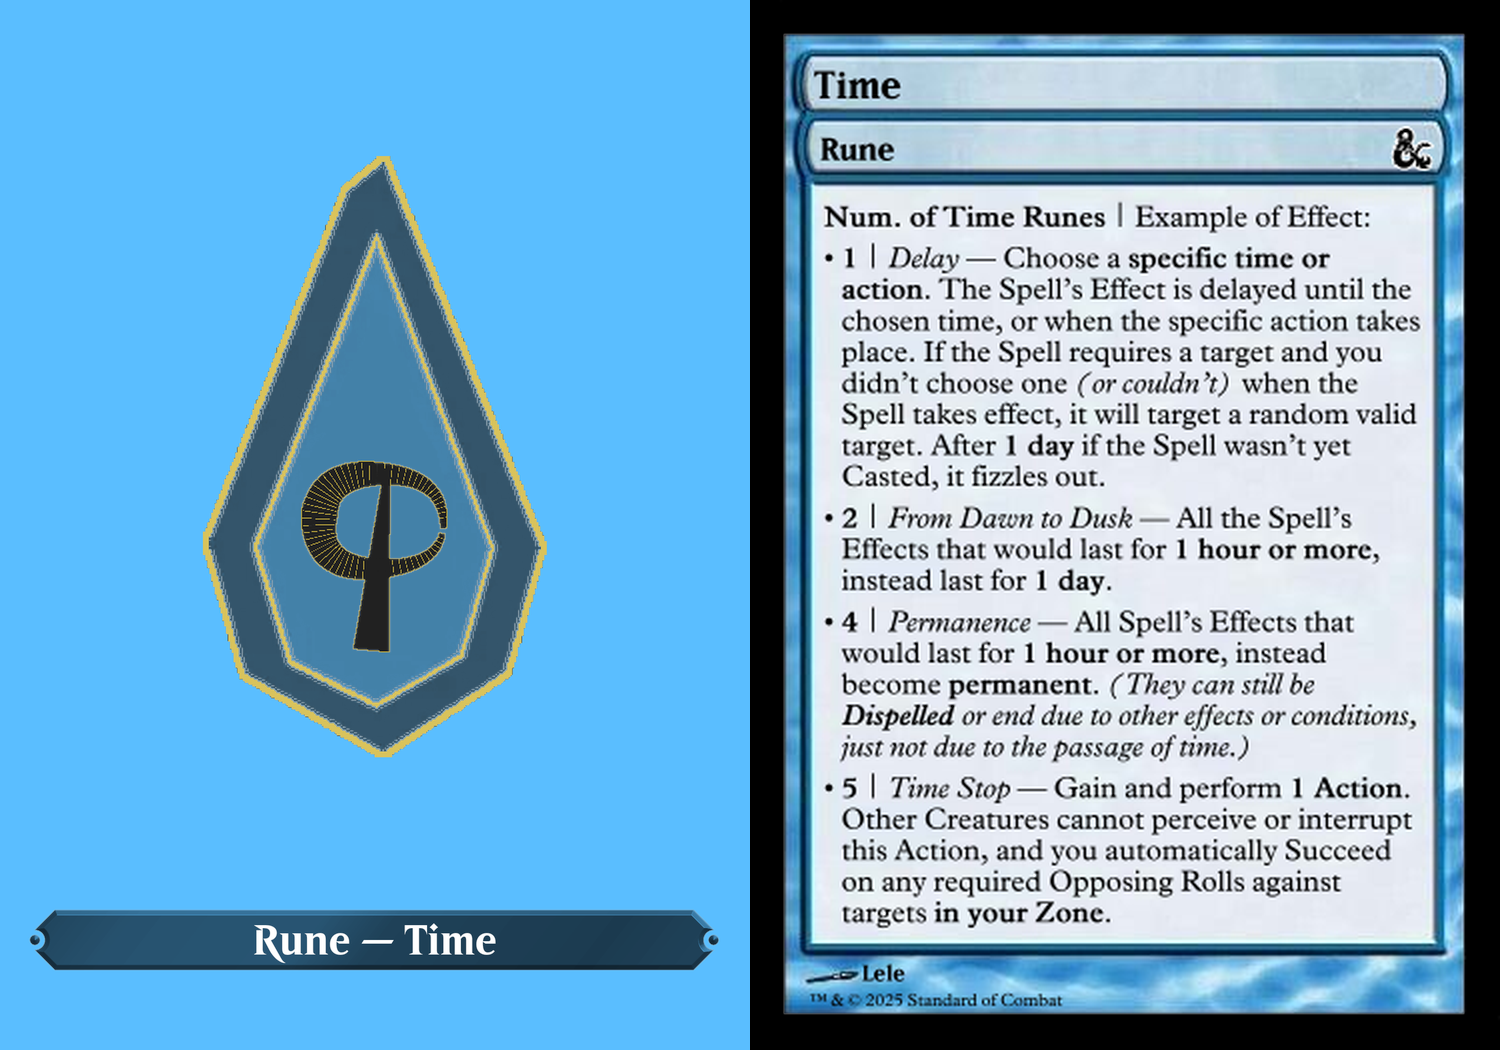
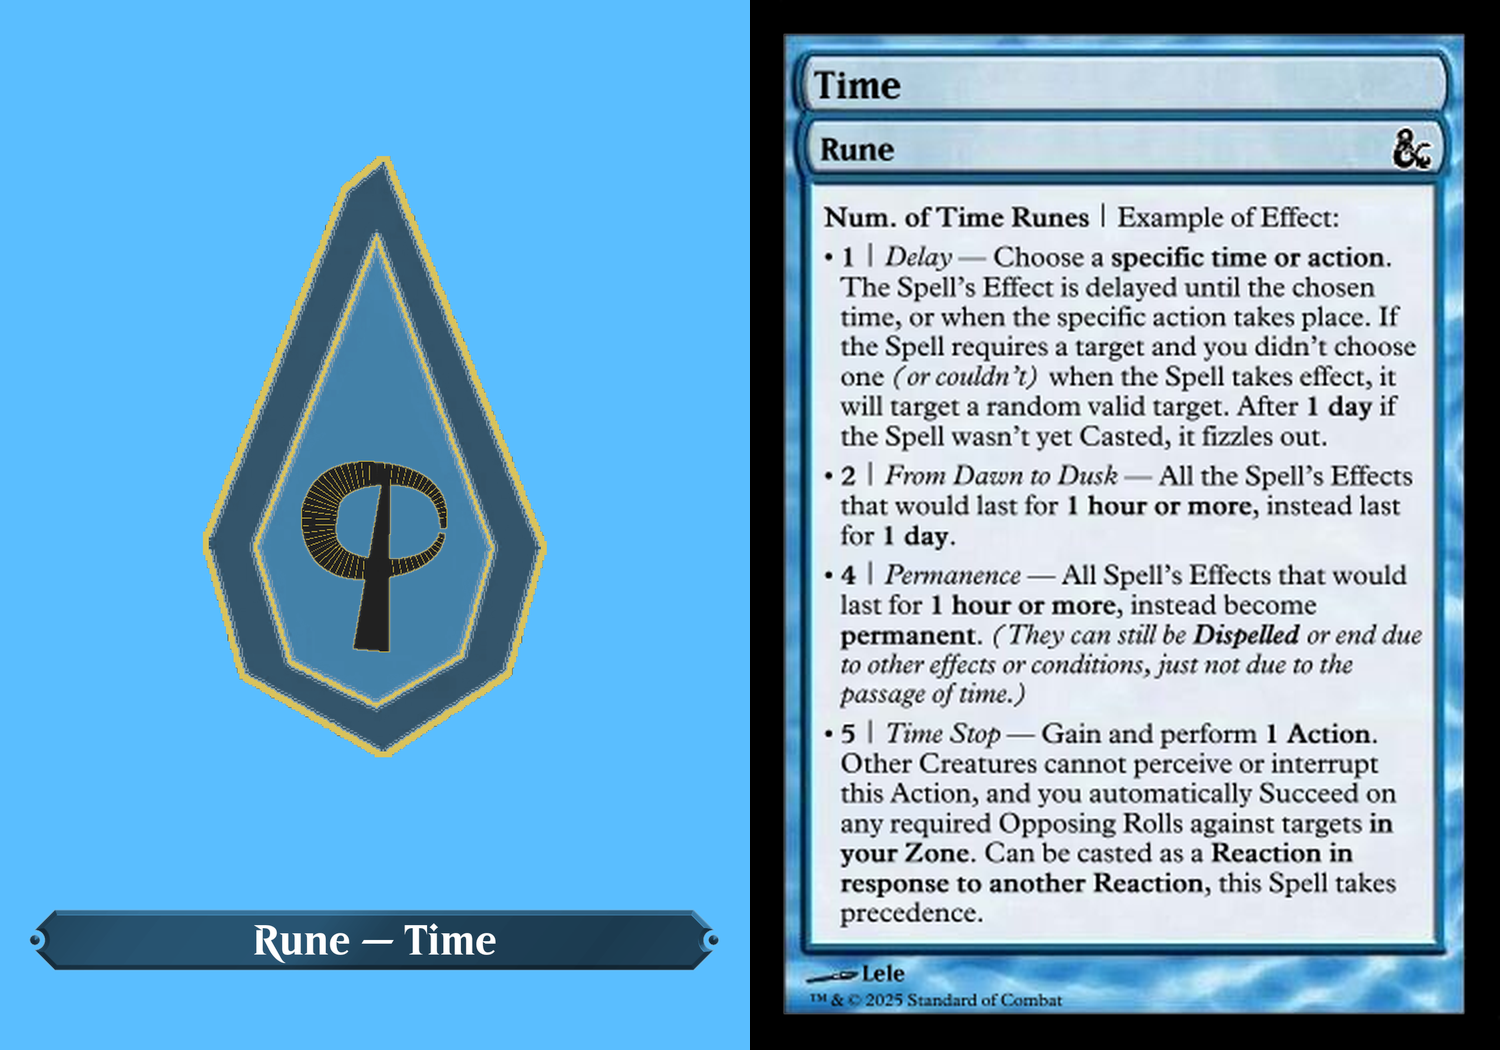
Quartz sync: Aug 7, 2025, 5:15 PM

Changed region(s): [[0.552, 0.1829, 0.9507, 0.8838]]

diff --git a/content/Notes & Images/SoC • Rune - Time.md b/content/Notes & Images/SoC • Rune - Time.md
@@ -5,7 +5,7 @@ aliases:
 %%
 - ***Image***:<br>![[Pasted image 20250102221205.png|100]]
 - ***Info***: Rune - Time 
-- ***Description***:<br>**Num. of Time Runes** | Example of Effect:<br>• **1** | _Delay_ — Choose a **specific time or action**. The Spell's Effect is delayed until the chosen time, or when the specific action takes place. If the Spell requires a target and you didn't choose one (_or couldn't_) when the Spell takes effect, it will target a random valid target. After **1 day** if the Spell wasn't yet Casted, it fizzles out.<br>• **2** | _From Dawn to Dusk_ — All the Spell's Effects that would last for **1 hour or more**, instead last for **1 day**.<br>• **4** | _Permanence_ — All Spell's Effects that would last for **1 hour or more**, instead become **permanent**. (_They can still be **Dispelled** or end due to other effects or conditions, just not due to the passage of time._)<br>• **5** | _Time Stop_ — Gain and perform **1 [[SoC • Rules Chapter - COMBAT|Action]]**. Other Creatures cannot perceive or interrupt this Action, and you automatically Succeed on any required [[SoC • Rules - Opposing Rolls|Opposing Rolls]] against targets **in your [[SoC • Rules Chapter - ZONES|Zone]]**.
+- ***Description***:<br>**Num. of Time Runes** | Example of Effect:<br>• **1** | _Delay_ — Choose a **specific time or action**. The Spell's Effect is delayed until the chosen time, or when the specific action takes place. If the Spell requires a target and you didn't choose one (_or couldn't_) when the Spell takes effect, it will target a random valid target. After **1 day** if the Spell wasn't yet Casted, it fizzles out.<br>• **2** | _From Dawn to Dusk_ — All the Spell's Effects that would last for **1 hour or more**, instead last for **1 day**.<br>• **4** | _Permanence_ — All Spell's Effects that would last for **1 hour or more**, instead become **permanent**. (_They can still be **Dispelled** or end due to other effects or conditions, just not due to the passage of time._)<br>• **5** | _Time Stop_ — Gain and perform **1 [[SoC • Rules Chapter - COMBAT|Action]]**. Other Creatures cannot perceive or interrupt this Action, and you automatically Succeed on any required [[SoC • Rules - Opposing Rolls|Opposing Rolls]] against targets **in your [[SoC • Rules Chapter - ZONES|Zone]]**. Can be casted as a **[[Reactions|Reaction]] in response to another [[Reactions|Reaction]]**, this Spell takes precedence.
 - ***Effects***: 
 - ***Limitations***: 
 - ***Color***: blue 

diff --git a/content/SoC • Optional Rule - Simplest Passive Ability.md b/content/SoC • Optional Rule - Simplest Passive Ability.md
@@ -1,0 +1,16 @@
+---
+aliases:
+  - Simplest Passive Ability
+---
+%%
+- ***Type***: Optional Rule
+- ***Description***:<br>_Optional Rule_ — Your **GM** will decide if they want to add this rule to the game.<br><br>_Although difficult, a Character may want a Passive Ability using only a single Rune, in those cases, it should not cost 5 Hero Points!_<br>You can spend **1 hour** to Create a [[SoC • Rules Chapter - SPELLS|Spell]] using **1 [[SoC • Rules Chapter - RUNES|Rune]]**, and pay **3 [[SoC • Rules Chapter - NEW CAMPAIGN|Hero Points]]**, to turn it into a **[[SoC • Rule - Passive Ability|Passive Ability]]**.<br><br>If then, you Character wants to "Increase" the Effect of this Simple [[SoC • Rule - Passive Ability|Passive Ability]], it does not require to make a complete new again. By spending **another hour** and **2 other [[SoC • Rules Chapter - NEW CAMPAIGN|Hero Points]]** you can add **an additional [[SoC • Rules Chapter - RUNES|Rune]]** (_of the same type_), making it a normal [[SoC • Rule - Passive Ability|Passive Ability]].
+- ***Flavor***: 
+- ***Rarity***: common
+- ***Color***: artifact, multicolor 
+- ***Nameplate Color***: 
+- ***Background Color***: 
+- ***Image Filter***: 
+%%
+
+![[SoC • Card - Simplest Passive Ability.png|325]]

diff --git a/content/SoC • Suggestion - Tactical Nuke.md b/content/SoC • Suggestion - Tactical Nuke.md
@@ -1,0 +1,16 @@
+---
+aliases:
+  - Tactical Nuke
+---
+%%
+- ***Type***: Suggestion
+- ***Description***:<br>**_Suggestion_** — Just a word from one **GM** to another.<br><br>Your players might eventually discover an overpowered combo — that's the price of granting extreme customization. Don’t stress about it. Be lenient at first: maybe the combo works the first time because it was easy to pull off, and the player feels clever and satisfied.<br>But next time? Maybe it just doesn’t work. Let that moment become part of the story. Let the players wonder why it failed — and encourage them to explore the mystery.<br>If a player insists on replicating a powerful effect, you have options:<br>• Make them **spend [[SoC • Rules Chapter - NEW CAMPAIGN|Hero Points]]** each time they use it.<br>• Or, allow them to **research it** through Skill Checks like [[Intuition]], [[Arcane]], ... If they uncover how it works, give them a choice: **spend Hero Points to learn it permanently**, or decide it’s **too costly to pursue**.
+- ***Flavor***: 
+- ***Rarity***: common
+- ***Color***: artifact, red 
+- ***Nameplate Color***: 
+- ***Background Color***: 
+- ***Image Filter***: 
+%%
+
+![[SoC • Card - Tactical Nuke.png|325]]

diff --git a/content/SoC • Spell - Sanctified Insight.md b/content/SoC • Spell - Sanctified Insight.md
@@ -12,5 +12,4 @@ aliases:
 - _**Prompt** [LMArena](https://beta.lmarena.ai/)_: I need a 2D epic fantasy illustration, in an epic graphic style with white and black color, and a clean white background A human with an halo and another human. The two humans have their mind connected by ephemeral connection. Add the words "Sanctified Insight" under the image in a stylish font.
 %%
 
-
 ![[SoC • Card - Sanctified Insight.png|650]]

diff --git a/content/SoC • Rules Chapter - OPTIONAL RULES.md b/content/SoC • Rules Chapter - OPTIONAL RULES.md
@@ -49,3 +49,8 @@ cssclasses:
 ![[SoC • Optional Rule - Overgeared (of Runes and Gear)|Overgeared]]
 
 ![[SoC • Optional Rule - Retroactive Advantage|Retroactive Advantage]]
+
+![[SoC • Optional Rule - Simplest Passive Ability|Simplest Passive Ability]]
+
+![[SoC • Suggestion - Tactical Nuke|Tactical Nuke]]
+
